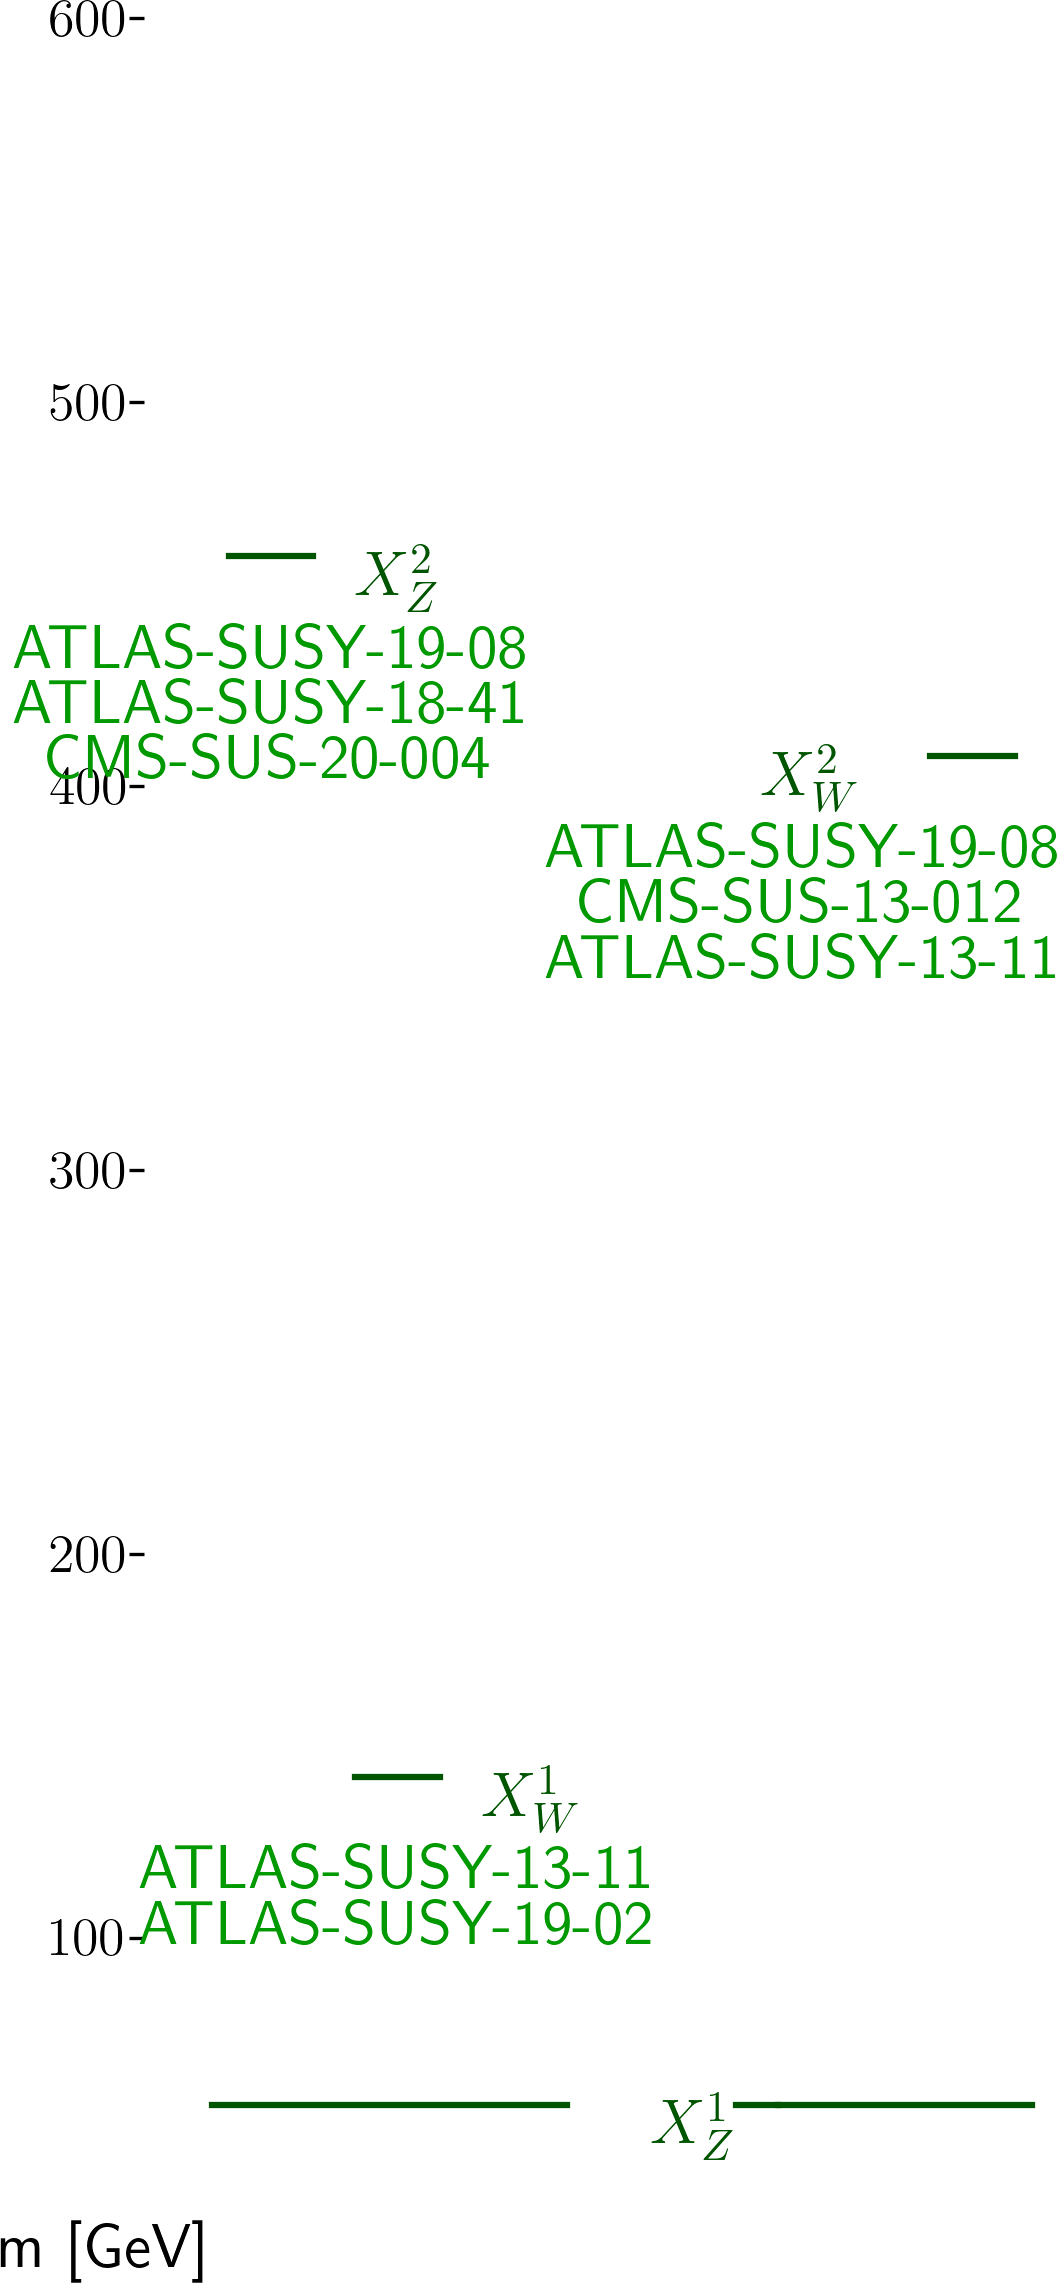
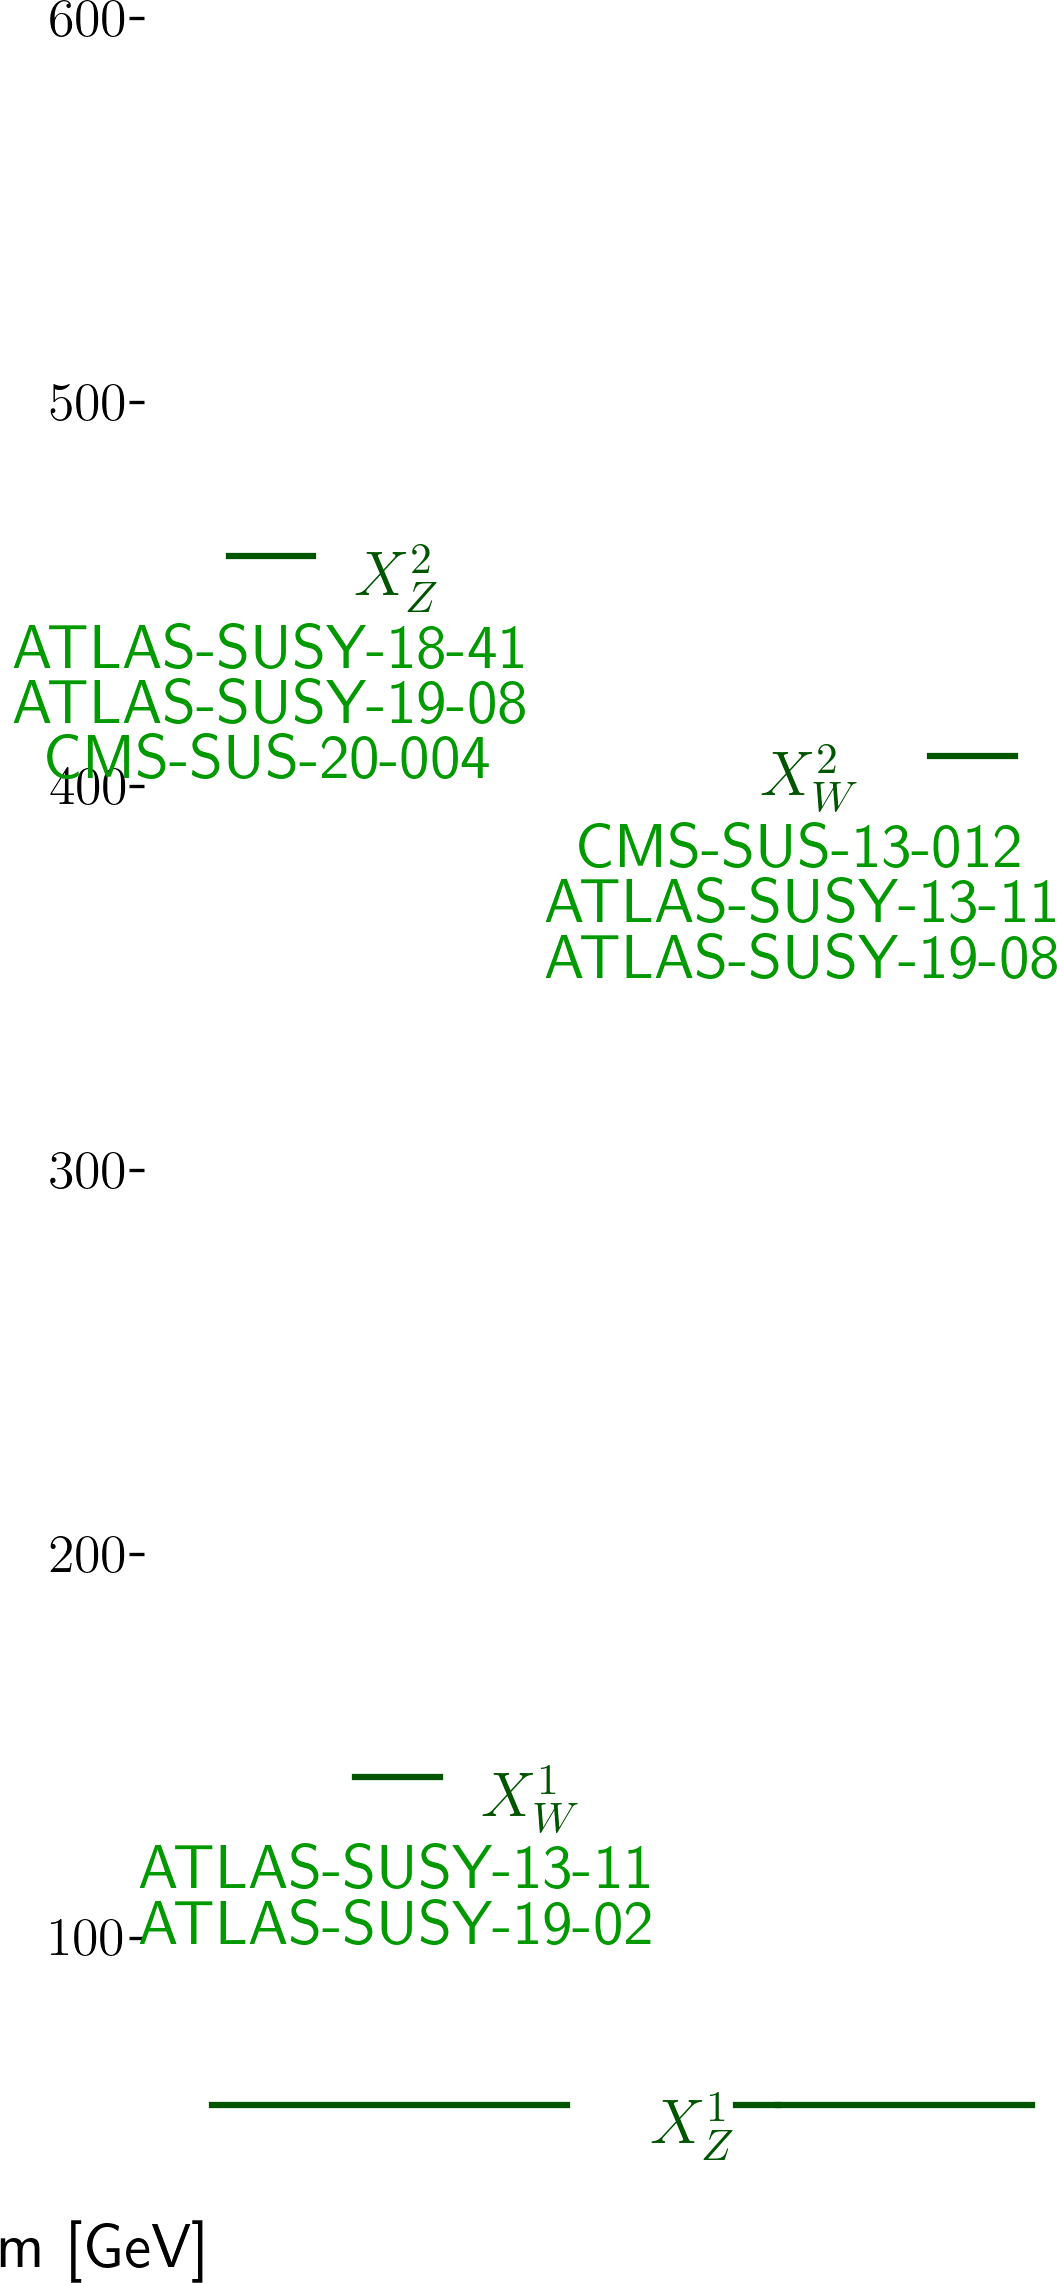
automated update by plotHiscore.py to ewkinos_300:     K=7.643 Z=3.53 walkerid=871

Changed region(s): [[0.4995, 0.3421, 1.0, 0.4354], [0.3746, 0.2799, 0.4995, 0.311]]

diff --git a/protomodels/ewkinos_300/rawnumbers.html b/protomodels/ewkinos_300/rawnumbers.html
@@ -2,8 +2,8 @@
 <tr><th>Analysis Name</th><th>Type</th><th>Dataset</th><th>Topos</th><th>Observed</th><th>Expected</th><th>Approx &sigma;</th><th>Particles</th>
 </tr>
 <tr><td><a href=http://cms-results.web.cern.ch/cms-results/public-results/publications/SUS-20-004/>CMS-SUS-20-004</a></td><td>comb</td> <td>-</td><td>TChiHH</td><td> 0.2 fb </td><td> 0.1 fb</td><td style="text-align:right">2.3 &sigma;</td><td style="text-align:right">X<sup>1</sup><sub>Z</sub>, X<sup>2</sup><sub>Z</sub></td></tr>
-<tr><td><a href=https://atlas.web.cern.ch/Atlas/GROUPS/PHYSICS/PAPERS/SUSY-2019-08/>ATLAS-SUSY-2019-08</a></td><td>em</td> <td>SR_MM_Med_MCT</td><td>TChiWH</td><td>7</td><td>2.60 +/- 1.30</td><td style="text-align:right">1.8 &sigma;</td><td style="text-align:right">X<sup>2</sup><sub>W</sub>, X<sup>1</sup><sub>Z</sub>, X<sup>2</sup><sub>Z</sub></td></tr>
 <tr><td><a href=https://twiki.cern.ch/twiki/bin/view/CMSPublic/PhysicsResultsSUS13012>CMS-SUS-13-012</a></td><td>em</td> <td>6NJet8_500HT800 ...</td><td>TChiWW</td><td>9</td><td>0.80 +/- 3.30</td><td style="text-align:right">1.8 &sigma;</td><td style="text-align:right">X<sup>2</sup><sub>W</sub>, X<sup>1</sup><sub>Z</sub></td></tr>
+<tr><td><a href=https://atlas.web.cern.ch/Atlas/GROUPS/PHYSICS/PAPERS/SUSY-2019-08/>ATLAS-SUSY-2019-08</a></td><td>em</td> <td>SR_MM_Med_MCT</td><td>TChiWH</td><td>7</td><td>2.60 +/- 1.30</td><td style="text-align:right">1.8 &sigma;</td><td style="text-align:right">X<sup>2</sup><sub>W</sub>, X<sup>1</sup><sub>Z</sub>, X<sup>2</sup><sub>Z</sub></td></tr>
 <tr><td><a href=https://atlas.web.cern.ch/Atlas/GROUPS/PHYSICS/PAPERS/SUSY-2019-02/>ATLAS-SUSY-2019-02</a></td><td>comb</td> <td>-</td><td>TChiWW</td><td> 2 fb </td><td> 0.9 fb</td><td style="text-align:right">1.3 &sigma;</td><td style="text-align:right">X<sup>1</sup><sub>W</sub>, X<sup>1</sup><sub>Z</sub></td></tr>
 <tr><td><a href=https://atlas.web.cern.ch/Atlas/GROUPS/PHYSICS/PAPERS/SUSY-2013-11/>ATLAS-SUSY-2013-11</a></td><td>em</td> <td>mT2-120-DF</td><td>TChiWW</td><td>5</td><td>3.60 +/- 1.20</td><td style="text-align:right">0.7 &sigma;</td><td style="text-align:right">X<sup>1</sup><sub>W</sub>, X<sup>2</sup><sub>W</sub>, X<sup>1</sup><sub>Z</sub></td></tr>
 <tr><td><a href=https://atlas.web.cern.ch/Atlas/GROUPS/PHYSICS/PAPERS/SUSY-2018-41/>ATLAS-SUSY-2018-41</a></td><td>em</td> <td>SR-2B2Q-Vh</td><td>TChiHH</td><td>1</td><td>2.49 +/- 0.78</td><td style="text-align:right">-0.8 &sigma;</td><td style="text-align:right">X<sup>1</sup><sub>Z</sub>, X<sup>2</sup><sub>Z</sub></td></tr>

diff --git a/protomodels/ewkinos_300/index.html b/protomodels/ewkinos_300/index.html
@@ -3,8 +3,8 @@
 <center>
 <table><td><h1>Current best protomodel: <i>K</i>=7.64, <i>Z</i>=3.53</h1><td><img height=60px src=https://smodels.github.io//protomodels/logos/protomodel_lego.png></table>
 </center>
-<b><a href=./hiscore.slha>ProtoModel</a> <a href=./pmodel.dict>(dict)</a> produced with <a href=https://smodels.github.io//docs/Validation300-beta>database v3.0.0-beta</a>, combination strategy <a href=./matrix.png>aggressive</a> in walker 871 step 461.</b> llhd plots: <a href=llhdX2Z.png?1648036>X2Z</a> <a href=llhdX1W.png?1648036>X1W</a>
-S plots: <a href=MX2Z.png?1648036>X2Z</a> <a href=MX1W.png?1648036>X1W</a> <a href=MX2W.png?1648036>X2W</a> <a href=MX1Z.png?1648036>X1Z</a>
+<b><a href=./hiscore.slha>ProtoModel</a> <a href=./pmodel.dict>(dict)</a> produced with <a href=https://smodels.github.io//docs/Validation300-beta>database v3.0.0-beta</a>, combination strategy <a href=./matrix.png>aggressive</a> in walker 871 step 461.</b> llhd plots: <a href=llhdX2Z_X2ZX2Z.png?1659473>X2Z_X2ZX2Z</a> <a href=llhdX2Z.png?1659473>X2Z</a> <a href=llhdX1W.png?1659473>X1W</a>
+S plots: <a href=MX2Z.png?1659473>X2Z</a> <a href=MX1W.png?1659473>X1W</a> <a href=MX2W.png?1659473>X2W</a> <a href=MX1Z.png?1659473>X1Z</a>
 <br>
 <table width=80%>
 <tr><td>
@@ -14,11 +14,11 @@ S plots: <a href=MX2Z.png?1648036>X2Z</a> <a href=MX1W.png?1648036>X1W</a> <a hr
 <li><a href=http://cms-results.web.cern.ch/cms-results/public-results/publications/SUS-20-004/>CMS-SUS-20-004</a>:comb:TChiHH r=0.55, r<sub>exp</sub>=1.15<br>
 <li><a href=https://atlas.web.cern.ch/Atlas/GROUPS/PHYSICS/PAPERS/SUSY-2019-02/>ATLAS-SUSY-2019-02</a>:comb:TChiWW r=0.50, r<sub>exp</sub>=0.85<br>
 </ul>
-<td><img width=600px src=./texdoc.png?1710768036>
-<br><font size=-1>Last updated: Mon Mar 18 14:20:36 2024</font>
+<td><img width=600px src=./texdoc.png?1710779473>
+<br><font size=-1>Last updated: Mon Mar 18 17:31:13 2024</font>
 </table><table style="width:80%">
-<td width=45%><img height=580px src=./ruler.png?1710768036><td width=55%><img height=220px src=./decays.png?1710768036>
-<font size=-3><iframe type="text/html" height="350px" width="100%" frameborder="0" src="./rawnumbers.html?1710768036"></iframe></font>
+<td width=45%><img height=580px src=./ruler.png?1710779473><td width=55%><img height=220px src=./decays.png?1710779473>
+<font size=-3><iframe type="text/html" height="350px" width="100%" frameborder="0" src="./rawnumbers.html?1710779473"></iframe></font>
 </table>
 </body>
 </html>
